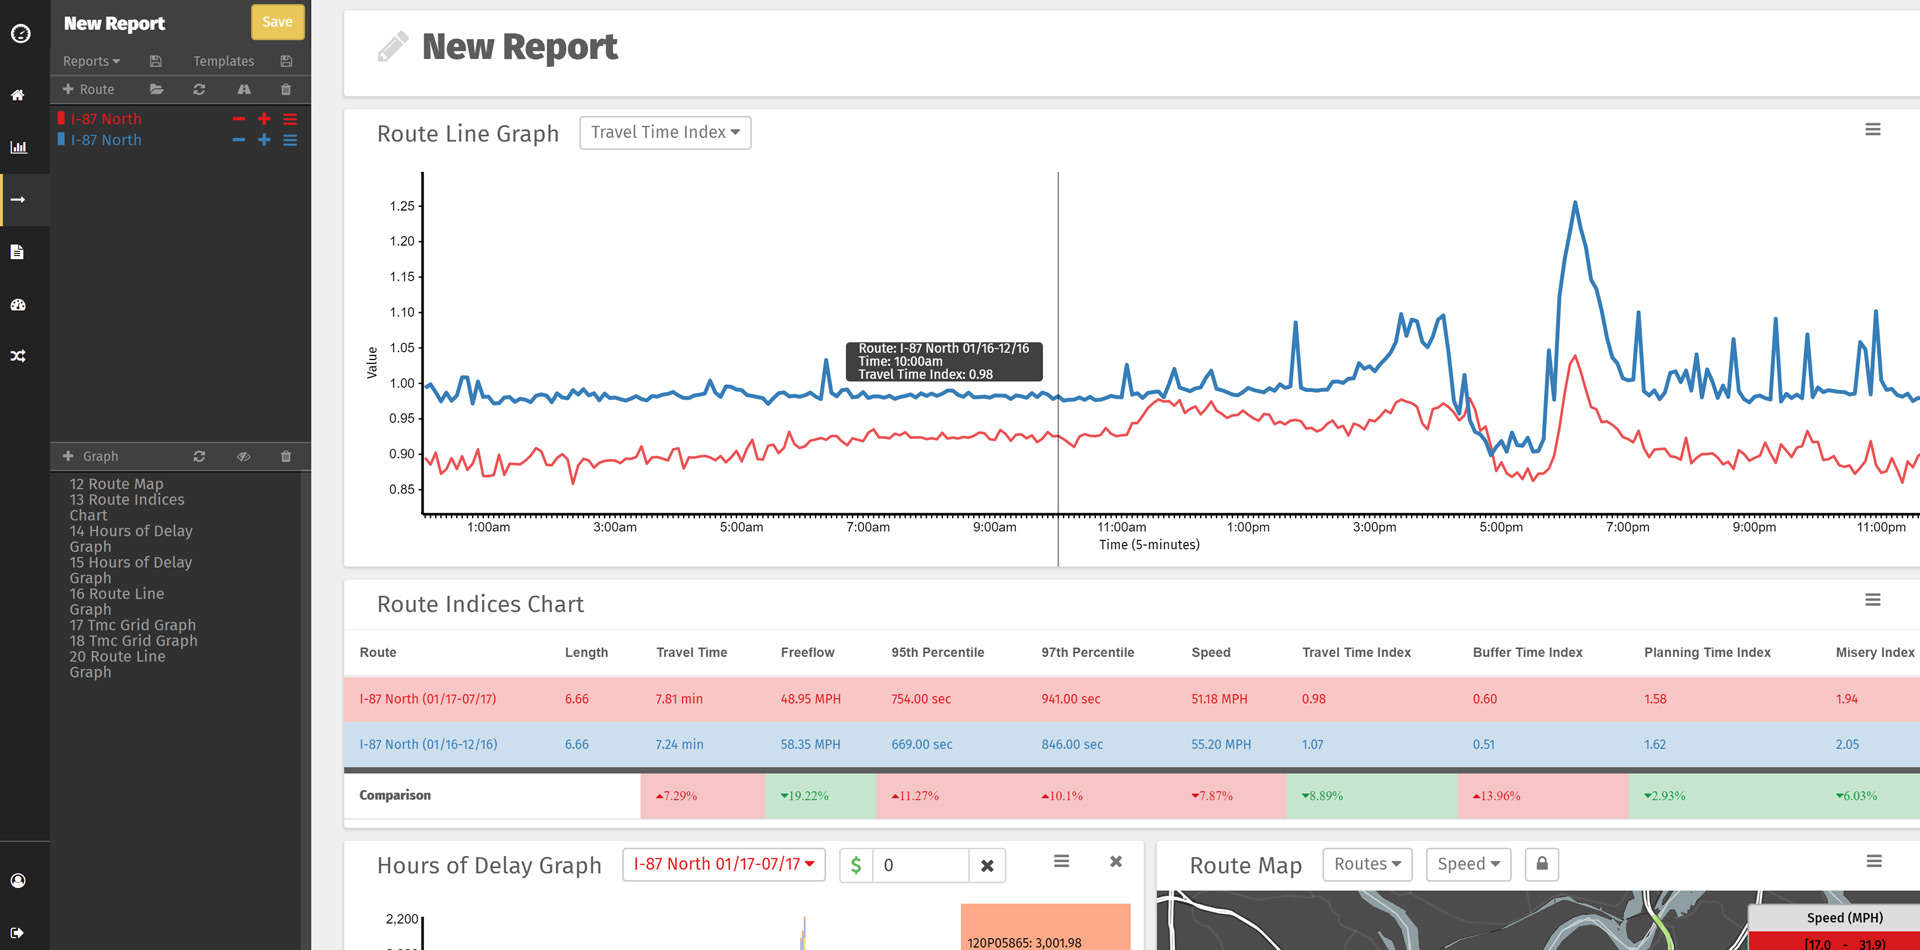
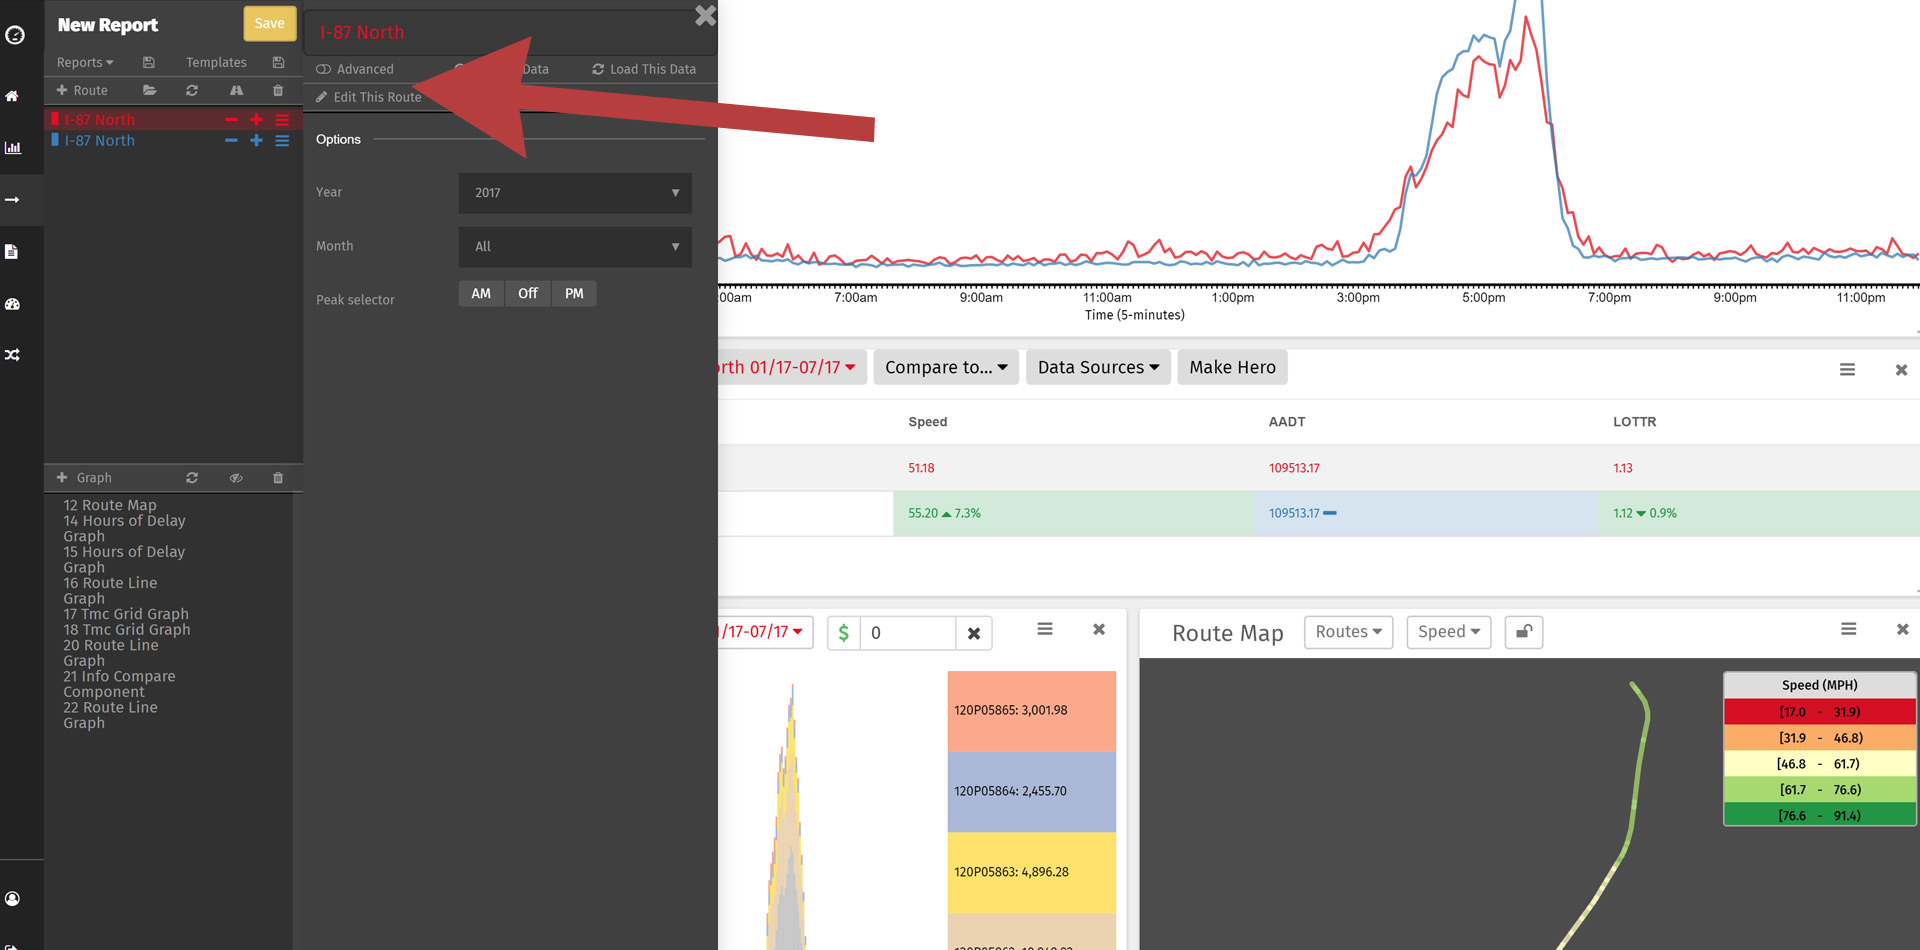
'finished_design_custom_routes'

diff --git a/site/content/step/g3_s4.md b/site/content/step/g3_s4.md
@@ -1,0 +1,20 @@
+---
+title: Step 4
+subtitle: Setting Data Parameters of Route Components
+date: 2017-10-01T11:57:10.000Z
+tag: 0204
+guideNumber: 3
+image1: img/blog/quick-template-3a.jpg
+image2: img/blog/custom-reports-4b.jpg
+image3: img/blog/quick-template-3c.jpg
+---
+
+# &nbsp; 
+#### Image 1: To Change the Data Parameters
+Click on a Route Componenet in the left navigation menu to change the data parameters. 
+
+#### Image 2: Advanced vs Simple
+The "Simple" tools for changing data parameters include three settings: Year, Month, and Peak Selector. You can quickly look at an Averge AM Peak for 2017 by selecting Year: 2017, Month: All, Peak Selector: AM (this will set your time bounds to 6:00am - 10:00am). To view an entire day, select no peak, to view 6:00am-8:00pm select all AM Peak/PM Peak/Off Peak. The Red Arrow points to the Advanced/Simple toggle for switching between these data parameter settings. When using the "Simple" tools all routes data will be an AVERAGE of the Year/Month and Time that is selected.
+
+#### Image 3: Advanced Settings
+The "Advanced" tools for data parameters settings include detailed parameter settings for looking at almost any date/time bounds and time resolution. This includes looking at the raw data (5 min resolution for a single day). It also includes settings for looking at an average Tuesday or Friday in a given month or year (or all-time), resolutions of 5-min, 15-min, hour, day, weekday, month, and year, and Trucks, Passenger Vehicles, and All Vehicles. Lastly, the Advanced settings is where you can download raw data from the tool.

diff --git a/site/content/step/g3_s5.md b/site/content/step/g3_s5.md
@@ -1,0 +1,21 @@
+---
+title: Step 5
+subtitle: Graph Component Settings
+date: 2017-10-01T11:56:10.000Z
+tag: 0205
+guideNumber: 3
+image1: img/blog/custom-reports-5a.jpg
+image2: img/blog/custom-reports-5b.jpg
+image3: img/blog/custom-reports-5c.jpg
+---
+
+# &nbsp; 
+#### Image 1: Accessing Advanced Data Parameters
+Most graphs have a drop down for selecting metrics including Speed, Freeflow Speed, Travel Time, Experiential Travel Time, 90th Percentile, 95th Percentile, Total Hours of Delay, Avg. Hours of Delay, PM3 Measures (LOTTR and TTTR), Travel Time Index, Buffer Time Index, Planning Time Index and Misery Index.
+
+#### Image 2: Info Compare Component Settings - Choosing Master Route
+The Red Arrow points to the Master Route selector, which allows you to select the baseline data to compare against. You can set any route component as your Master Route. 
+ 
+
+#### Image 3: Info Compare Component Settings - Choosing Compare Route
+The Red Arrow in this image points to the Compare Route selector. The Compare Route will show percent change between this route component and the Master. When speeds are faster or travel times are shorter etc., the metric will be highlighted green, when speeds are slower and travel times are longer etc., the metrics are highlighted red.

diff --git a/site/content/step/g3_s6.md b/site/content/step/g3_s6.md
@@ -1,0 +1,21 @@
+---
+title: Step 6
+subtitle: Saving Reports and Templates
+date: 2017-10-01T11:55:10.000Z
+tag: 0306
+guideNumber: 3
+image1: img/blog/custom-reports-6a.jpg
+image2: img/blog/custom-reports-6b.jpg
+image3: img/blog/custom-reports-6c.jpg
+---
+
+# &nbsp; 
+#### Image 1: Click Save Template or Save Report
+The Red Arrows in this image are pointing to the save icon for both Reports and Templates. To save this as a specific report, with your specific data settings and the specific routes you chose, you'll want to save this as a report. To save the settings but not the specific data/routes, so that you can use these settings to analyze any routes in the future, save as a template.
+
+#### Image 2: Saving a Report
+Name the Report, enter a description and save it to either your peronal collection of reports or to your group. Then click "Save."
+ 
+
+#### Image 3: Info Compare Component Settings - Choosing Compare Route
+Name the Template, enter a description, save it to either your peronal collection of reports or to your group and check "Special" to include this Template on the dashboard, or leave "Special" unchecked if you wish not to clutter your dashboard. Then click "Save." 
